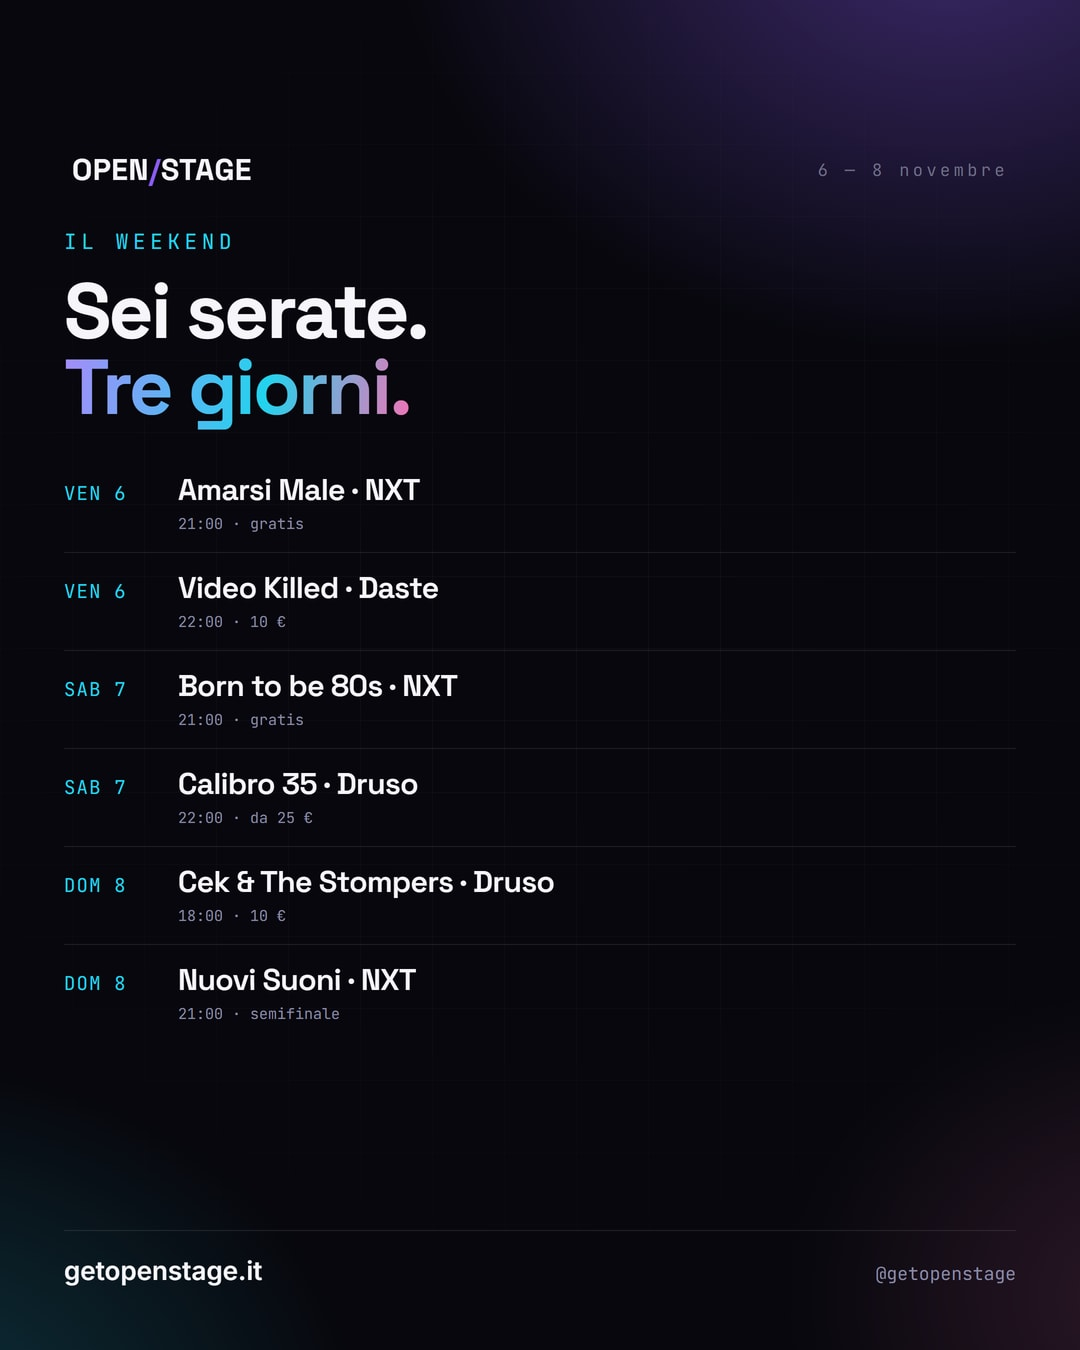
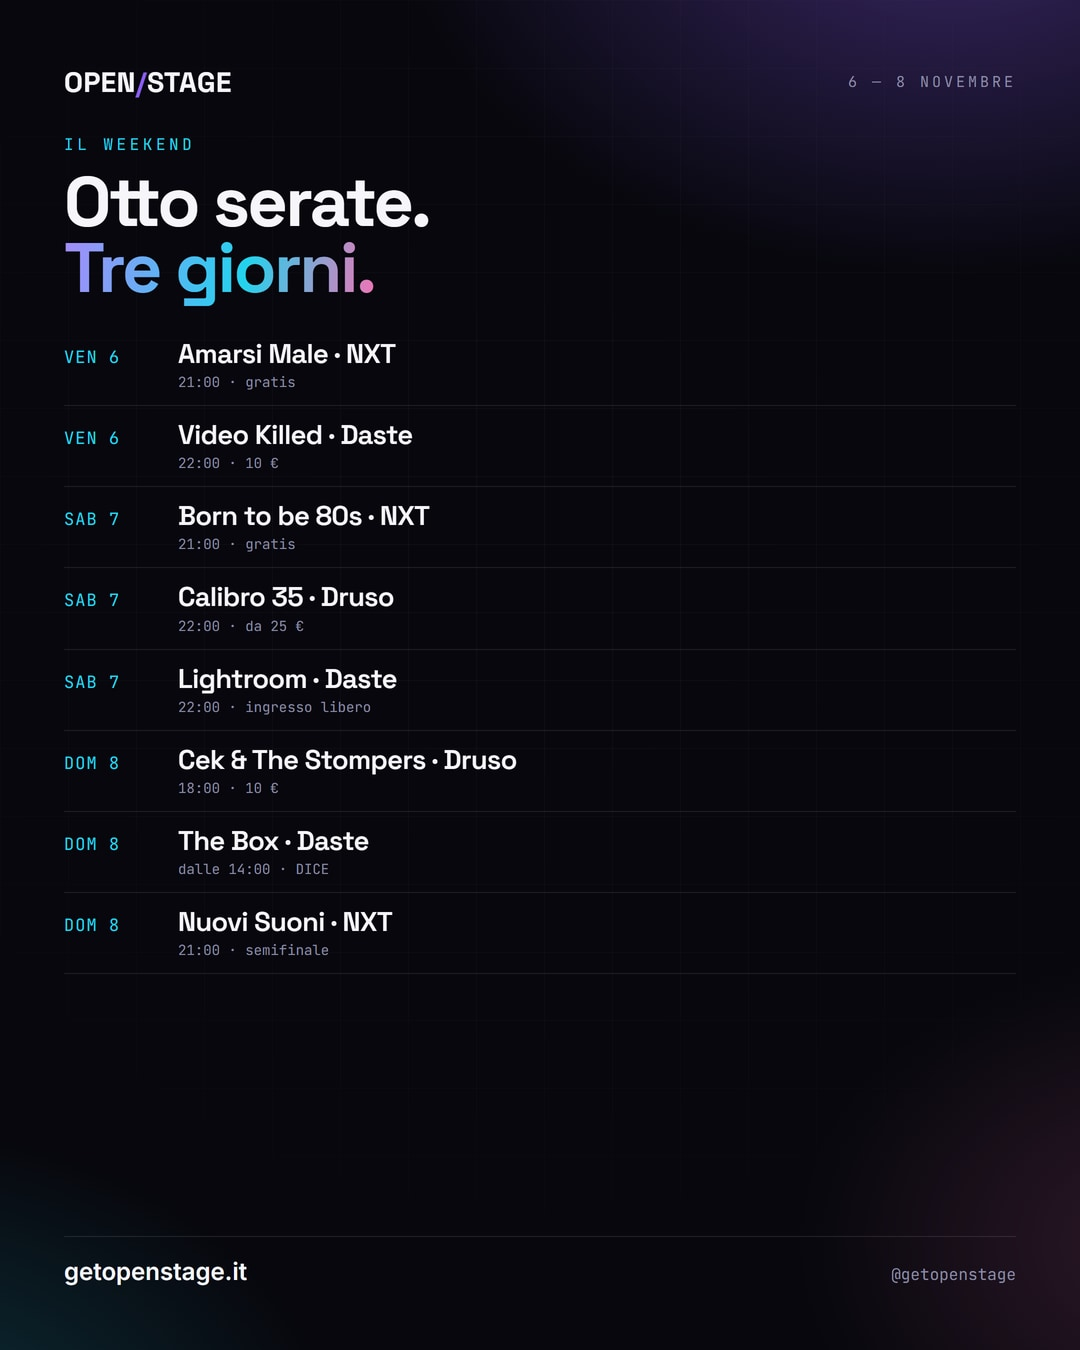
TikTok: titoli e descrizioni lunghe; post 4 a otto serate

diff --git a/docs/tiktok/copioni.md b/docs/tiktok/copioni.md
@@ -1,8 +1,8 @@
-# TikTok @getopenstage — tre video pronti
+# TikTok @getopenstage — copioni e descrizioni
 
 Immagini in `public/brand/tiktok/`, verticali 1080×1920.
-Formato: **carosello foto** (Photo Mode) o video con le card in sequenza.
-Durata: 15–20 secondi. Un video a settimana, sempre lo stesso giorno.
+Formato: carosello foto (Photo Mode) o video con le card in sequenza.
+Durata: 15–20 secondi.
 
 **Audio.** Non usare la canzone della band se non hai i diritti: TikTok la
 silenzierebbe. Usa un sound indie in tendenza, oppure una registrazione tua dal
@@ -12,73 +12,104 @@ vivo.
 
 ## Video 1 — Cos'è OpenStage
 
-Card: `01-cose-1` → `01-cose-5` (3 secondi l'una)
+**Titolo (prima riga, quella che si legge nel feed):**
+`Ogni settimana a Bergamo ci sono 20 serate. Tu ne scopri tre.`
 
-| Card | Testo a schermo | Voce fuori campo (facoltativa) |
-| --- | --- | --- |
-| 1 | Ogni settimana ci sono 20 serate. Ne scopri tre. | «Ogni settimana a Bergamo ci sono venti serate.» |
-| 2 | Le altre finiscono tra storie, locandine e gruppi WhatsApp. | — |
-| 3 | OpenStage le mette su una mappa. | «Apri, guarda i pin, esci di casa.» |
-| 4 | Date vere. Locali veri. Nessun pay-to-play. | — |
-| 5 | Sempre gratis. Per tutti. getopenstage.it | «Gratis, per sempre.» |
-
-**Didascalia**
+**Descrizione:**
 
 ```
-Le serate della tua città, su una mappa. Gratis.
-#bergamo #bergamomusica #concertibergamo #musicadalvivo #indieitaliano
+Ogni settimana a Bergamo ci sono venti serate. Tu ne scopri tre.
+
+Le altre finiscono tra storie che scadono, locandine salvate e gruppi WhatsApp dove il messaggio si perde in due ore.
+
+OpenStage è la mappa gratuita della musica dal vivo: date, locali e band della tua città in un posto solo. Apri, guarda i pin, esci di casa. Senza saltare tra dieci profili diversi e senza chiedere a nessuno «ma stasera cosa c'è?».
+
+Nessuna pubblicità, nessun pay-to-play, nessun algoritmo che decide chi merita un palco. Chi suona non paga per esserci, chi ascolta non paga per cercare.
+
+Se sei un locale o una band, la scheda si reclama ed è tua: aggiorni le serate, le foto e i contatti, e la mappa resta viva.
+
+Date vere. Locali veri. Band vere. Tutte su getopenstage.it 👉 link in bio.
+
+#bergamo #bergamomusica #concertibergamo #musicadalvivo #indieitaliano #localidabergamo
 ```
 
 ---
 
 ## Video 2 — Questa settimana (6–8 novembre)
 
-Card: `02-settimana-1` → `02-settimana-5`
+**Titolo:**
+`Cosa fare a Bergamo questo weekend: otto serate dal 6 all'8 novembre`
 
-| Card | Testo a schermo |
-| --- | --- |
-| 1 | Questa settimana a Bergamo. |
-| 2 | Venerdì 6 — Amarsi Male · NXT (gratis) · Video Killed · Daste (10 €) |
-| 3 | Sabato 7 — Born to be 80s · NXT (gratis) · Calibro 35 · Druso (da 25 €) |
-| 4 | Domenica 8 — Cek & The Stompers · Druso (10 €) · Nuovi Suoni · NXT (semifinale) |
-| 5 | Sei serate. Una mappa. getopenstage.it |
-
-**Didascalia**
+**Descrizione:**
 
 ```
-Sei serate in tre giorni. Scegli la tua.
-#bergamo #bergamomusica #weekendabergamo #concertibergamo #drusobg #nxtbergamo #dastebergamo
+Cosa fare a Bergamo questo weekend? Otto serate in tre giorni, e sono tutte sulla mappa.
+
+Venerdì 6
+· Amarsi Male al NXT (21:00, gratis)
+· Video Killed the Radio Star al Daste (22:00, 80s party)
+
+Sabato 7
+· Born to be 80s al NXT (21:00, gratis)
+· Calibro 35 vs L.A. al Druso (22:00, da 25 €)
+· Lightroom — Gender Reveal Party al Daste (22:00, ingresso libero)
+
+Domenica 8
+· Cek & The Stompers al Druso (18:00, 10 €)
+· The Box — Techno Toast al Daste (dalle 14:00, biglietti su DICE)
+· Nuovi Suoni Live, semifinale al NXT (21:00)
+
+Dal blues al funk, dall'indie al party: c'è roba per chi vuole ascoltare e per chi vuole ballare. Ogni serata ha la sua scheda con orario, prezzo, indirizzo e biglietti — su getopenstage.it 👉 link in bio.
+
+Salva il video e mandalo a chi dice sempre «non c'è mai niente da fare».
+
+#bergamo #bergamomusica #weekendabergamo #concertibergamo #drusobg #nxtbergamo #dastebergamo #musicadalvivo
 ```
 
 ---
 
 ## Video 3 — Come si legge una scheda
 
-Card: `03-scheda-1` → `03-scheda-5`
+**Titolo:**
+`Come trovare una serata a Bergamo senza perdere mezz'ora`
 
-| Card | Testo a schermo |
-| --- | --- |
-| 1 | Una serata, una pagina. |
-| 2 | Data e ora, senza cercarle nei commenti. |
-| 3 | Il locale, l'indirizzo e la mappa. |
-| 4 | Quanto costa. Dove si compra. |
-| 5 | Il resto è musica. getopenstage.it |
-
-**Didascalia**
+**Descrizione:**
 
 ```
-Data, ora, prezzo, indirizzo e biglietti: tutto in una pagina.
-#bergamo #musicadalvivo #concertibergamo #indieitaliano #openstage
+Come trovare una serata a Bergamo senza perdere mezz'ora tra storie e locandine.
+
+Su OpenStage ogni serata ha una pagina sola. Dentro c'è tutto quello che serve prima di uscire di casa:
+
+· quando — data e ora, senza cercarle nei commenti
+· dove — il locale, l'indirizzo e la mappa per arrivarci
+· quanto — prezzo e ingresso gratuito, scritti chiaramente
+· biglietti — il link diretto alla prevendita, quando esiste
+
+Niente «ma a che ora inizia?», niente post di tre settimane fa con la data vecchia, niente informazioni perse tra i commenti.
+
+E se una data cambia, la scheda cambia con lei: la mappa resta aggiornata, e chi l'aveva salvata non si presenta a un concerto annullato.
+
+Apri getopenstage.it 👉 link in bio, cerca la tua città e guarda cosa c'è stasera.
+
+#bergamo #bergamomusica #concertibergamo #musicadalvivo #indieitaliano #openstage
 ```
 
 ---
 
+## Una cosa onesta sulla lunghezza
+
+Le descrizioni lunghe aiutano perché TikTok le legge come **testo di ricerca**:
+se qualcuno cerca «concerti Bergamo» o «cosa fare a Bergamo», una caption con
+quelle parole ha più possibilità di uscire. Ma non triplicano le visualizzazioni
+da sole: contano le prime 3 card, il primo secondo e quante persone arrivano in
+fondo.
+
+Quindi: descrizione lunga **e** prime card che si leggono in due secondi.
+
 ## Regole pratiche
 
-- **Testo grande**: su TikTok si guarda senza audio, il testo deve leggersi in
-  due secondi.
-- **Primo secondo**: la card 1 deve dire subito di cosa si parla. Niente loghi
-  animati.
+- **Testo grande**: si guarda senza audio, deve leggersi in due secondi.
+- **Primo secondo**: la card 1 dice subito di cosa si parla. Niente loghi animati.
 - **Un video a settimana**, sempre lo stesso giorno (giovedì sera funziona: la
   gente programma il weekend).
 - **Rispondi ai commenti** con una serata vera: è così che un video diventa

diff --git a/docs/instagram/post-4-6.md b/docs/instagram/post-4-6.md
@@ -12,17 +12,19 @@ Questo weekend a Bergamo si suona. 🎶
 
 Venerdì 6
 · Amarsi Male al NXT (21:00, gratis)
-· Video Killed the Radio Star al Daste (22:00, 10 €)
+· Video Killed the Radio Star al Daste (22:00, 80s party)
 
 Sabato 7
 · Born to be 80s al NXT (21:00, gratis)
 · Calibro 35 vs L.A. al Druso (22:00, da 25 €)
+· Lightroom al Daste (22:00, ingresso libero)
 
 Domenica 8
 · Cek & The Stompers al Druso (18:00, 10 €)
+· The Box — Techno Toast al Daste (dalle 14:00, DICE)
 · Nuovi Suoni Live, semifinale al NXT (21:00)
 
-Sei serate, tre giorni. Le trovi tutte su getopenstage.it.
+Otto serate, tre giorni. Le trovi tutte su getopenstage.it.
 
 @nxtbergamo @daste_bergamo @drusobg
 
